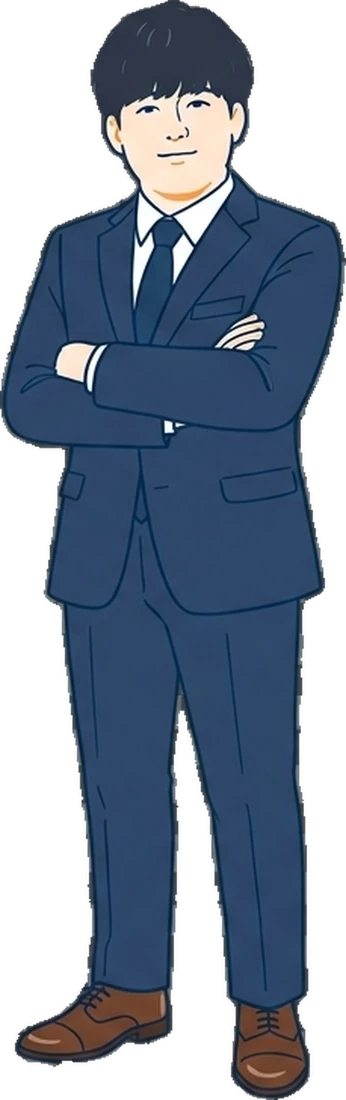
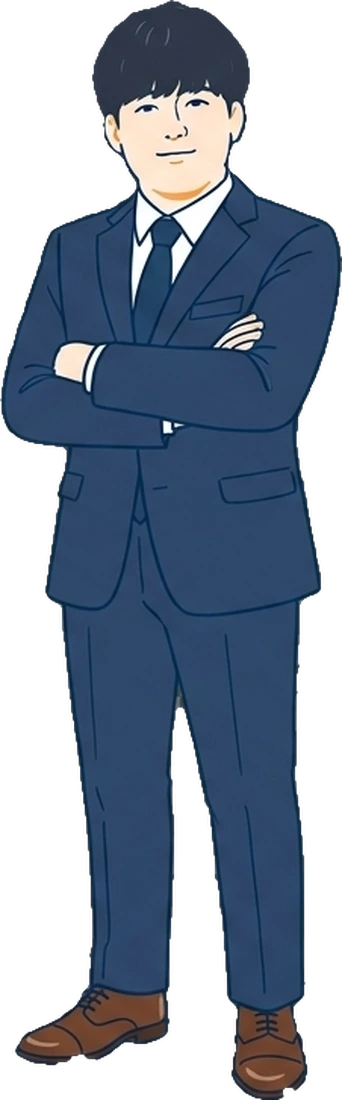
代表写真：背景を透明に、切り抜きを滑らかに

diff --git a/new-v4/about/index.html b/new-v4/about/index.html
@@ -11,7 +11,7 @@
 <link rel="preconnect" href="https://fonts.gstatic.com" crossorigin/>
 <link href="https://fonts.googleapis.com/css2?family=Inter:wght@200;300;400;500;600;700&family=Noto+Sans+JP:wght@400;500;700;800&display=swap" rel="stylesheet"/>
 <link href="https://fonts.googleapis.com/css2?family=Poppins:wght@200;300;400;500;600;700&amp;text=0123456789.%2C%25%2B%3A&amp;display=swap" rel="stylesheet"/>
-<link rel="stylesheet" href="../assets/style.css?v=20261007160353"/>
+<link rel="stylesheet" href="../assets/style.css?v=20261007160710"/>
 </head>
 <body data-sub>
 
@@ -80,7 +80,7 @@
   <section class="band wipe" data-wipe><div class="wrap">
     <div class="sec-title rv"><span class="en-t">Message from CEO</span><span class="jp-t">代表メッセージ</span></div>
     <div class="founder">
-      <figure class="fphoto rv"><span class="fwalk"><img class="fa" src="../assets/founder-w1.webp" alt="" width="830" height="1100"/><img class="fb" src="../assets/founder-w2.webp" alt="" width="797" height="1100"/><img class="fc" src="../assets/founder-stand.webp" alt="代表取締役 新田 拓夢" width="346" height="1100"/></span></figure>
+      <figure class="fphoto rv"><span class="fwalk"><img class="fa" src="../assets/founder-w1.webp" alt="" width="830" height="1100"/><img class="fb" src="../assets/founder-w2.webp" alt="" width="797" height="1100"/><img class="fc" src="../assets/founder-stand.webp?v=20261007160710" alt="代表取締役 新田 拓夢" width="346" height="1100"/></span></figure>
       <div class="rv d1">
         <h2 class="lead-h">圧倒的な機動力を、<br>貴社の専属Web部門に。</h2>
         <div class="prose">
@@ -134,6 +134,6 @@
   </footer>
 </div>
 
-<script src="../assets/app.js?v=20261007160353"></script>
+<script src="../assets/app.js?v=20261007160710"></script>
 </body>
 </html>

diff --git a/new-v4/news/2026-06-05/index.html b/new-v4/news/2026-06-05/index.html
@@ -11,7 +11,7 @@
 <link rel="preconnect" href="https://fonts.gstatic.com" crossorigin/>
 <link href="https://fonts.googleapis.com/css2?family=Inter:wght@200;300;400;500;600;700&family=Noto+Sans+JP:wght@400;500;700;800&display=swap" rel="stylesheet"/>
 <link href="https://fonts.googleapis.com/css2?family=Poppins:wght@200;300;400;500;600;700&amp;text=0123456789.%2C%25%2B%3A&amp;display=swap" rel="stylesheet"/>
-<link rel="stylesheet" href="../../assets/style.css?v=20261007160353"/>
+<link rel="stylesheet" href="../../assets/style.css?v=20261007160710"/>
 </head>
 <body data-sub>
 
@@ -93,6 +93,6 @@
   </footer>
 </div>
 
-<script src="../../assets/app.js?v=20261007160353"></script>
+<script src="../../assets/app.js?v=20261007160710"></script>
 </body>
 </html>

diff --git a/new-v4/news/2026-06-22/index.html b/new-v4/news/2026-06-22/index.html
@@ -11,7 +11,7 @@
 <link rel="preconnect" href="https://fonts.gstatic.com" crossorigin/>
 <link href="https://fonts.googleapis.com/css2?family=Inter:wght@200;300;400;500;600;700&family=Noto+Sans+JP:wght@400;500;700;800&display=swap" rel="stylesheet"/>
 <link href="https://fonts.googleapis.com/css2?family=Poppins:wght@200;300;400;500;600;700&amp;text=0123456789.%2C%25%2B%3A&amp;display=swap" rel="stylesheet"/>
-<link rel="stylesheet" href="../../assets/style.css?v=20261007160353"/>
+<link rel="stylesheet" href="../../assets/style.css?v=20261007160710"/>
 </head>
 <body data-sub>
 
@@ -96,6 +96,6 @@
   </footer>
 </div>
 
-<script src="../../assets/app.js?v=20261007160353"></script>
+<script src="../../assets/app.js?v=20261007160710"></script>
 </body>
 </html>

diff --git a/new-v4/pricing/index.html b/new-v4/pricing/index.html
@@ -11,7 +11,7 @@
 <link rel="preconnect" href="https://fonts.gstatic.com" crossorigin/>
 <link href="https://fonts.googleapis.com/css2?family=Inter:wght@200;300;400;500;600;700&family=Noto+Sans+JP:wght@400;500;700;800&display=swap" rel="stylesheet"/>
 <link href="https://fonts.googleapis.com/css2?family=Poppins:wght@200;300;400;500;600;700&amp;text=0123456789.%2C%25%2B%3A&amp;display=swap" rel="stylesheet"/>
-<link rel="stylesheet" href="../assets/style.css?v=20261007160353"/>
+<link rel="stylesheet" href="../assets/style.css?v=20261007160710"/>
 </head>
 <body data-sub>
 
@@ -109,6 +109,6 @@
   </footer>
 </div>
 
-<script src="../assets/app.js?v=20261007160353"></script>
+<script src="../assets/app.js?v=20261007160710"></script>
 </body>
 </html>

diff --git a/new-v4/service-corporate/index.html b/new-v4/service-corporate/index.html
@@ -11,7 +11,7 @@
 <link rel="preconnect" href="https://fonts.gstatic.com" crossorigin/>
 <link href="https://fonts.googleapis.com/css2?family=Inter:wght@200;300;400;500;600;700&family=Noto+Sans+JP:wght@400;500;700;800&display=swap" rel="stylesheet"/>
 <link href="https://fonts.googleapis.com/css2?family=Poppins:wght@200;300;400;500;600;700&amp;text=0123456789.%2C%25%2B%3A&amp;display=swap" rel="stylesheet"/>
-<link rel="stylesheet" href="../assets/style.css?v=20261007160353"/>
+<link rel="stylesheet" href="../assets/style.css?v=20261007160710"/>
 </head>
 <body data-sub>
 
@@ -116,6 +116,6 @@
   </footer>
 </div>
 
-<script src="../assets/app.js?v=20261007160353"></script>
+<script src="../assets/app.js?v=20261007160710"></script>
 </body>
 </html>

diff --git a/new-v4/service-lp/index.html b/new-v4/service-lp/index.html
@@ -11,7 +11,7 @@
 <link rel="preconnect" href="https://fonts.gstatic.com" crossorigin/>
 <link href="https://fonts.googleapis.com/css2?family=Inter:wght@200;300;400;500;600;700&family=Noto+Sans+JP:wght@400;500;700;800&display=swap" rel="stylesheet"/>
 <link href="https://fonts.googleapis.com/css2?family=Poppins:wght@200;300;400;500;600;700&amp;text=0123456789.%2C%25%2B%3A&amp;display=swap" rel="stylesheet"/>
-<link rel="stylesheet" href="../assets/style.css?v=20261007160353"/>
+<link rel="stylesheet" href="../assets/style.css?v=20261007160710"/>
 </head>
 <body data-sub>
 
@@ -116,6 +116,6 @@
   </footer>
 </div>
 
-<script src="../assets/app.js?v=20261007160353"></script>
+<script src="../assets/app.js?v=20261007160710"></script>
 </body>
 </html>

diff --git a/new-v4/service-system/index.html b/new-v4/service-system/index.html
@@ -11,7 +11,7 @@
 <link rel="preconnect" href="https://fonts.gstatic.com" crossorigin/>
 <link href="https://fonts.googleapis.com/css2?family=Inter:wght@200;300;400;500;600;700&family=Noto+Sans+JP:wght@400;500;700;800&display=swap" rel="stylesheet"/>
 <link href="https://fonts.googleapis.com/css2?family=Poppins:wght@200;300;400;500;600;700&amp;text=0123456789.%2C%25%2B%3A&amp;display=swap" rel="stylesheet"/>
-<link rel="stylesheet" href="../assets/style.css?v=20261007160353"/>
+<link rel="stylesheet" href="../assets/style.css?v=20261007160710"/>
 </head>
 <body data-sub>
 
@@ -116,6 +116,6 @@
   </footer>
 </div>
 
-<script src="../assets/app.js?v=20261007160353"></script>
+<script src="../assets/app.js?v=20261007160710"></script>
 </body>
 </html>

diff --git a/new-v4/service/index.html b/new-v4/service/index.html
@@ -11,7 +11,7 @@
 <link rel="preconnect" href="https://fonts.gstatic.com" crossorigin/>
 <link href="https://fonts.googleapis.com/css2?family=Inter:wght@200;300;400;500;600;700&family=Noto+Sans+JP:wght@400;500;700;800&display=swap" rel="stylesheet"/>
 <link href="https://fonts.googleapis.com/css2?family=Poppins:wght@200;300;400;500;600;700&amp;text=0123456789.%2C%25%2B%3A&amp;display=swap" rel="stylesheet"/>
-<link rel="stylesheet" href="../assets/style.css?v=20261007160353"/>
+<link rel="stylesheet" href="../assets/style.css?v=20261007160710"/>
 </head>
 <body data-sub>
 
@@ -122,6 +122,6 @@
   </footer>
 </div>
 
-<script src="../assets/app.js?v=20261007160353"></script>
+<script src="../assets/app.js?v=20261007160710"></script>
 </body>
 </html>

diff --git a/new-v4/contact/index.html b/new-v4/contact/index.html
@@ -11,7 +11,7 @@
 <link rel="preconnect" href="https://fonts.gstatic.com" crossorigin/>
 <link href="https://fonts.googleapis.com/css2?family=Inter:wght@200;300;400;500;600;700&family=Noto+Sans+JP:wght@400;500;700;800&display=swap" rel="stylesheet"/>
 <link href="https://fonts.googleapis.com/css2?family=Poppins:wght@200;300;400;500;600;700&amp;text=0123456789.%2C%25%2B%3A&amp;display=swap" rel="stylesheet"/>
-<link rel="stylesheet" href="../assets/style.css?v=20261007160353"/>
+<link rel="stylesheet" href="../assets/style.css?v=20261007160710"/>
 </head>
 <body data-sub>
 
@@ -96,6 +96,6 @@
   </footer>
 </div>
 
-<script src="../assets/app.js?v=20261007160353"></script>
+<script src="../assets/app.js?v=20261007160710"></script>
 </body>
 </html>

diff --git a/new-v4/privacy/index.html b/new-v4/privacy/index.html
@@ -11,7 +11,7 @@
 <link rel="preconnect" href="https://fonts.gstatic.com" crossorigin/>
 <link href="https://fonts.googleapis.com/css2?family=Inter:wght@200;300;400;500;600;700&family=Noto+Sans+JP:wght@400;500;700;800&display=swap" rel="stylesheet"/>
 <link href="https://fonts.googleapis.com/css2?family=Poppins:wght@200;300;400;500;600;700&amp;text=0123456789.%2C%25%2B%3A&amp;display=swap" rel="stylesheet"/>
-<link rel="stylesheet" href="../assets/style.css?v=20261007160353"/>
+<link rel="stylesheet" href="../assets/style.css?v=20261007160710"/>
 </head>
 <body data-sub>
 
@@ -81,6 +81,6 @@
   </footer>
 </div>
 
-<script src="../assets/app.js?v=20261007160353"></script>
+<script src="../assets/app.js?v=20261007160710"></script>
 </body>
 </html>

diff --git a/new-v4/thanks/index.html b/new-v4/thanks/index.html
@@ -11,7 +11,7 @@
 <link rel="preconnect" href="https://fonts.gstatic.com" crossorigin/>
 <link href="https://fonts.googleapis.com/css2?family=Inter:wght@200;300;400;500;600;700&family=Noto+Sans+JP:wght@400;500;700;800&display=swap" rel="stylesheet"/>
 <link href="https://fonts.googleapis.com/css2?family=Poppins:wght@200;300;400;500;600;700&amp;text=0123456789.%2C%25%2B%3A&amp;display=swap" rel="stylesheet"/>
-<link rel="stylesheet" href="../assets/style.css?v=20261007160353"/>
+<link rel="stylesheet" href="../assets/style.css?v=20261007160710"/>
 </head>
 <body data-sub>
 
@@ -81,6 +81,6 @@
   </footer>
 </div>
 
-<script src="../assets/app.js?v=20261007160353"></script>
+<script src="../assets/app.js?v=20261007160710"></script>
 </body>
 </html>

diff --git a/new-v4/works/index.html b/new-v4/works/index.html
@@ -11,7 +11,7 @@
 <link rel="preconnect" href="https://fonts.gstatic.com" crossorigin/>
 <link href="https://fonts.googleapis.com/css2?family=Inter:wght@200;300;400;500;600;700&family=Noto+Sans+JP:wght@400;500;700;800&display=swap" rel="stylesheet"/>
 <link href="https://fonts.googleapis.com/css2?family=Poppins:wght@200;300;400;500;600;700&amp;text=0123456789.%2C%25%2B%3A&amp;display=swap" rel="stylesheet"/>
-<link rel="stylesheet" href="../assets/style.css?v=20261007160353"/>
+<link rel="stylesheet" href="../assets/style.css?v=20261007160710"/>
 </head>
 <body data-sub>
 
@@ -98,6 +98,6 @@
   </footer>
 </div>
 
-<script src="../assets/app.js?v=20261007160353"></script>
+<script src="../assets/app.js?v=20261007160710"></script>
 </body>
 </html>
